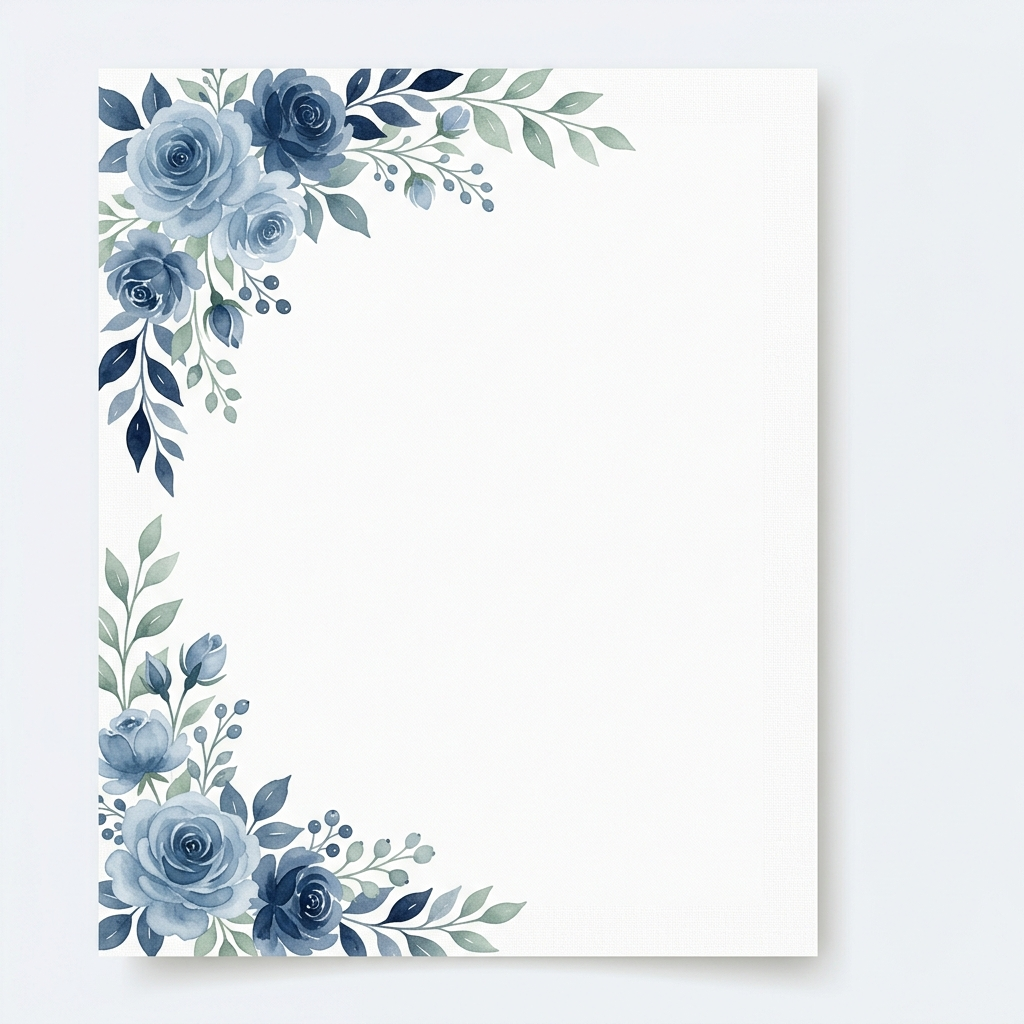
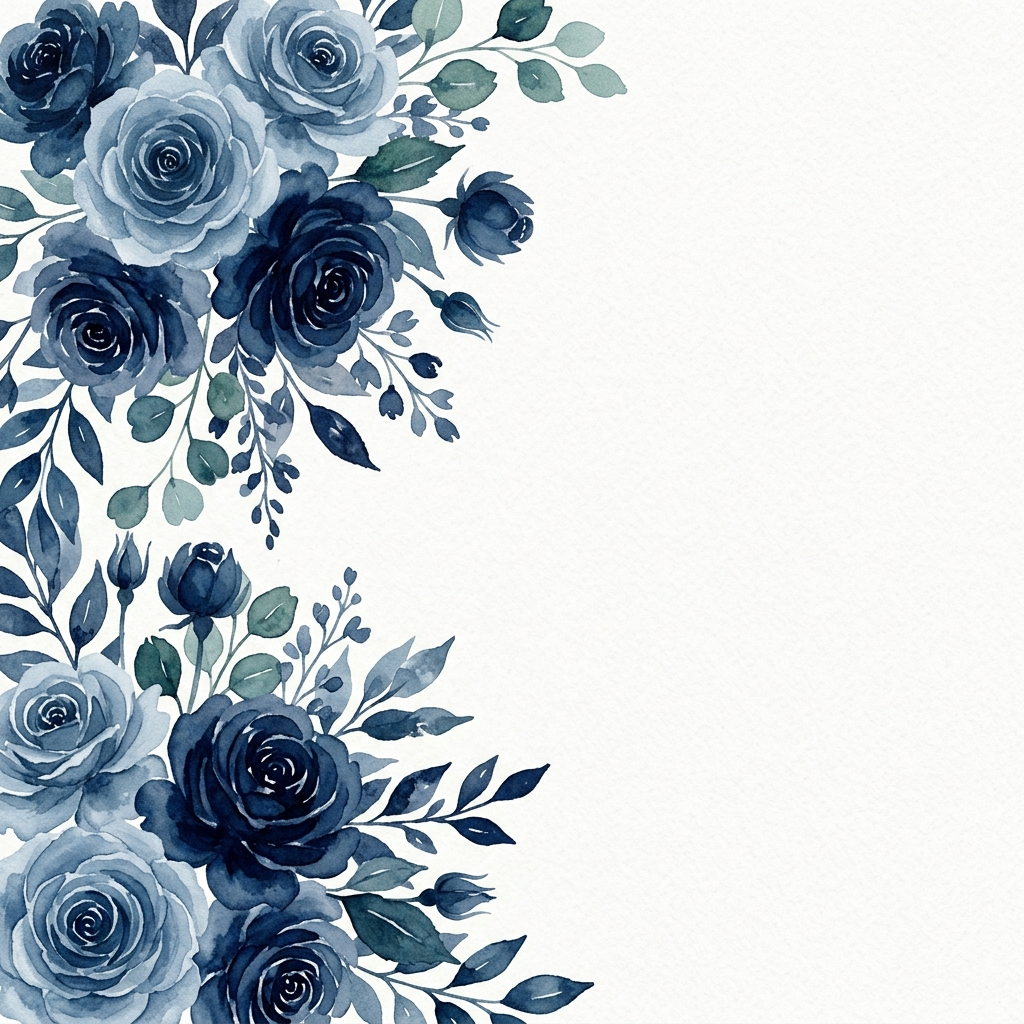
Fix background image fit to 100% 100% full bleed edge-to-edge

diff --git a/frontend/src/components/themes/wedding/layouts/general/MinimalLayout.tsx b/frontend/src/components/themes/wedding/layouts/general/MinimalLayout.tsx
@@ -202,8 +202,8 @@ export default function MinimalLayout({ content, website }: WeddingLayoutProps) 
     hero: (
       <section
         key="hero"
-        className="relative w-full flex flex-col justify-center items-end text-right bg-[#FFFFFF] text-[#2C4666] p-0 overflow-hidden py-12 sm:py-16 min-h-screen bg-cover bg-left-top bg-no-repeat font-serif"
-        style={{ backgroundImage: "url('/media/blue_floral_bg.png')" }}
+        className="relative w-full flex flex-col justify-center items-end text-right bg-[#FFFFFF] text-[#2C4666] p-0 overflow-hidden min-h-screen font-serif"
+        style={{ backgroundImage: "url('/media/blue_floral_bg.png')", backgroundSize: '100% 100%', backgroundPosition: 'center', backgroundRepeat: 'no-repeat' }}
       >
         <style>{`
           @import url('https://fonts.googleapis.com/css2?family=Alex+Brush&family=Cormorant+Garamond:ital,wght@0,400;0,600;0,700;1,400&display=swap');
